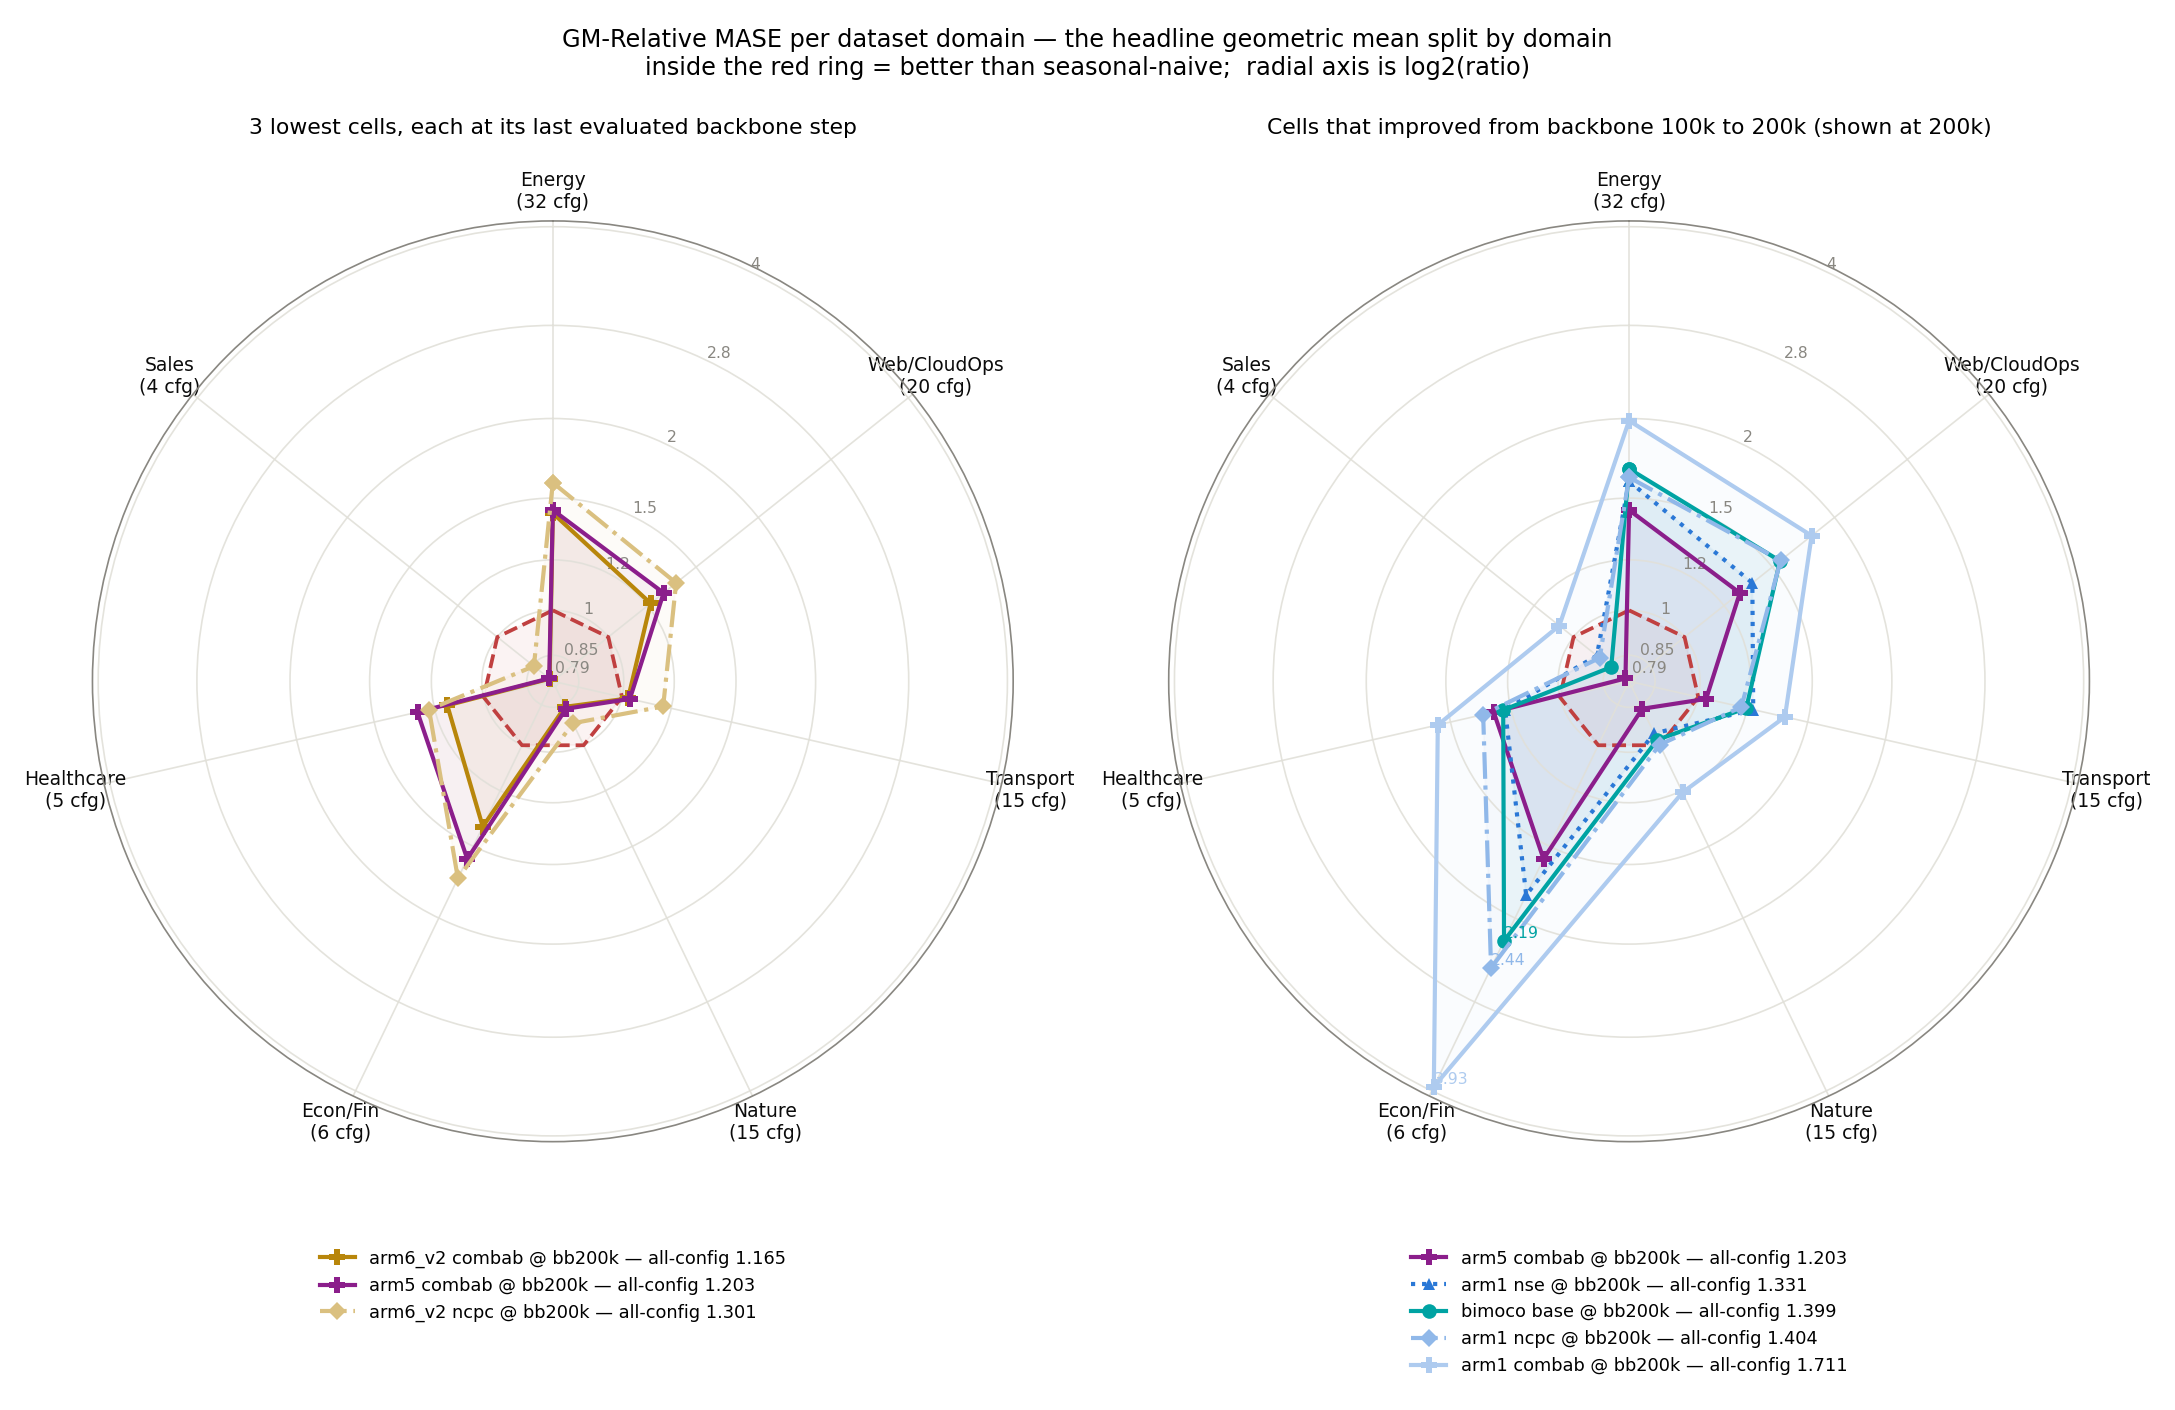
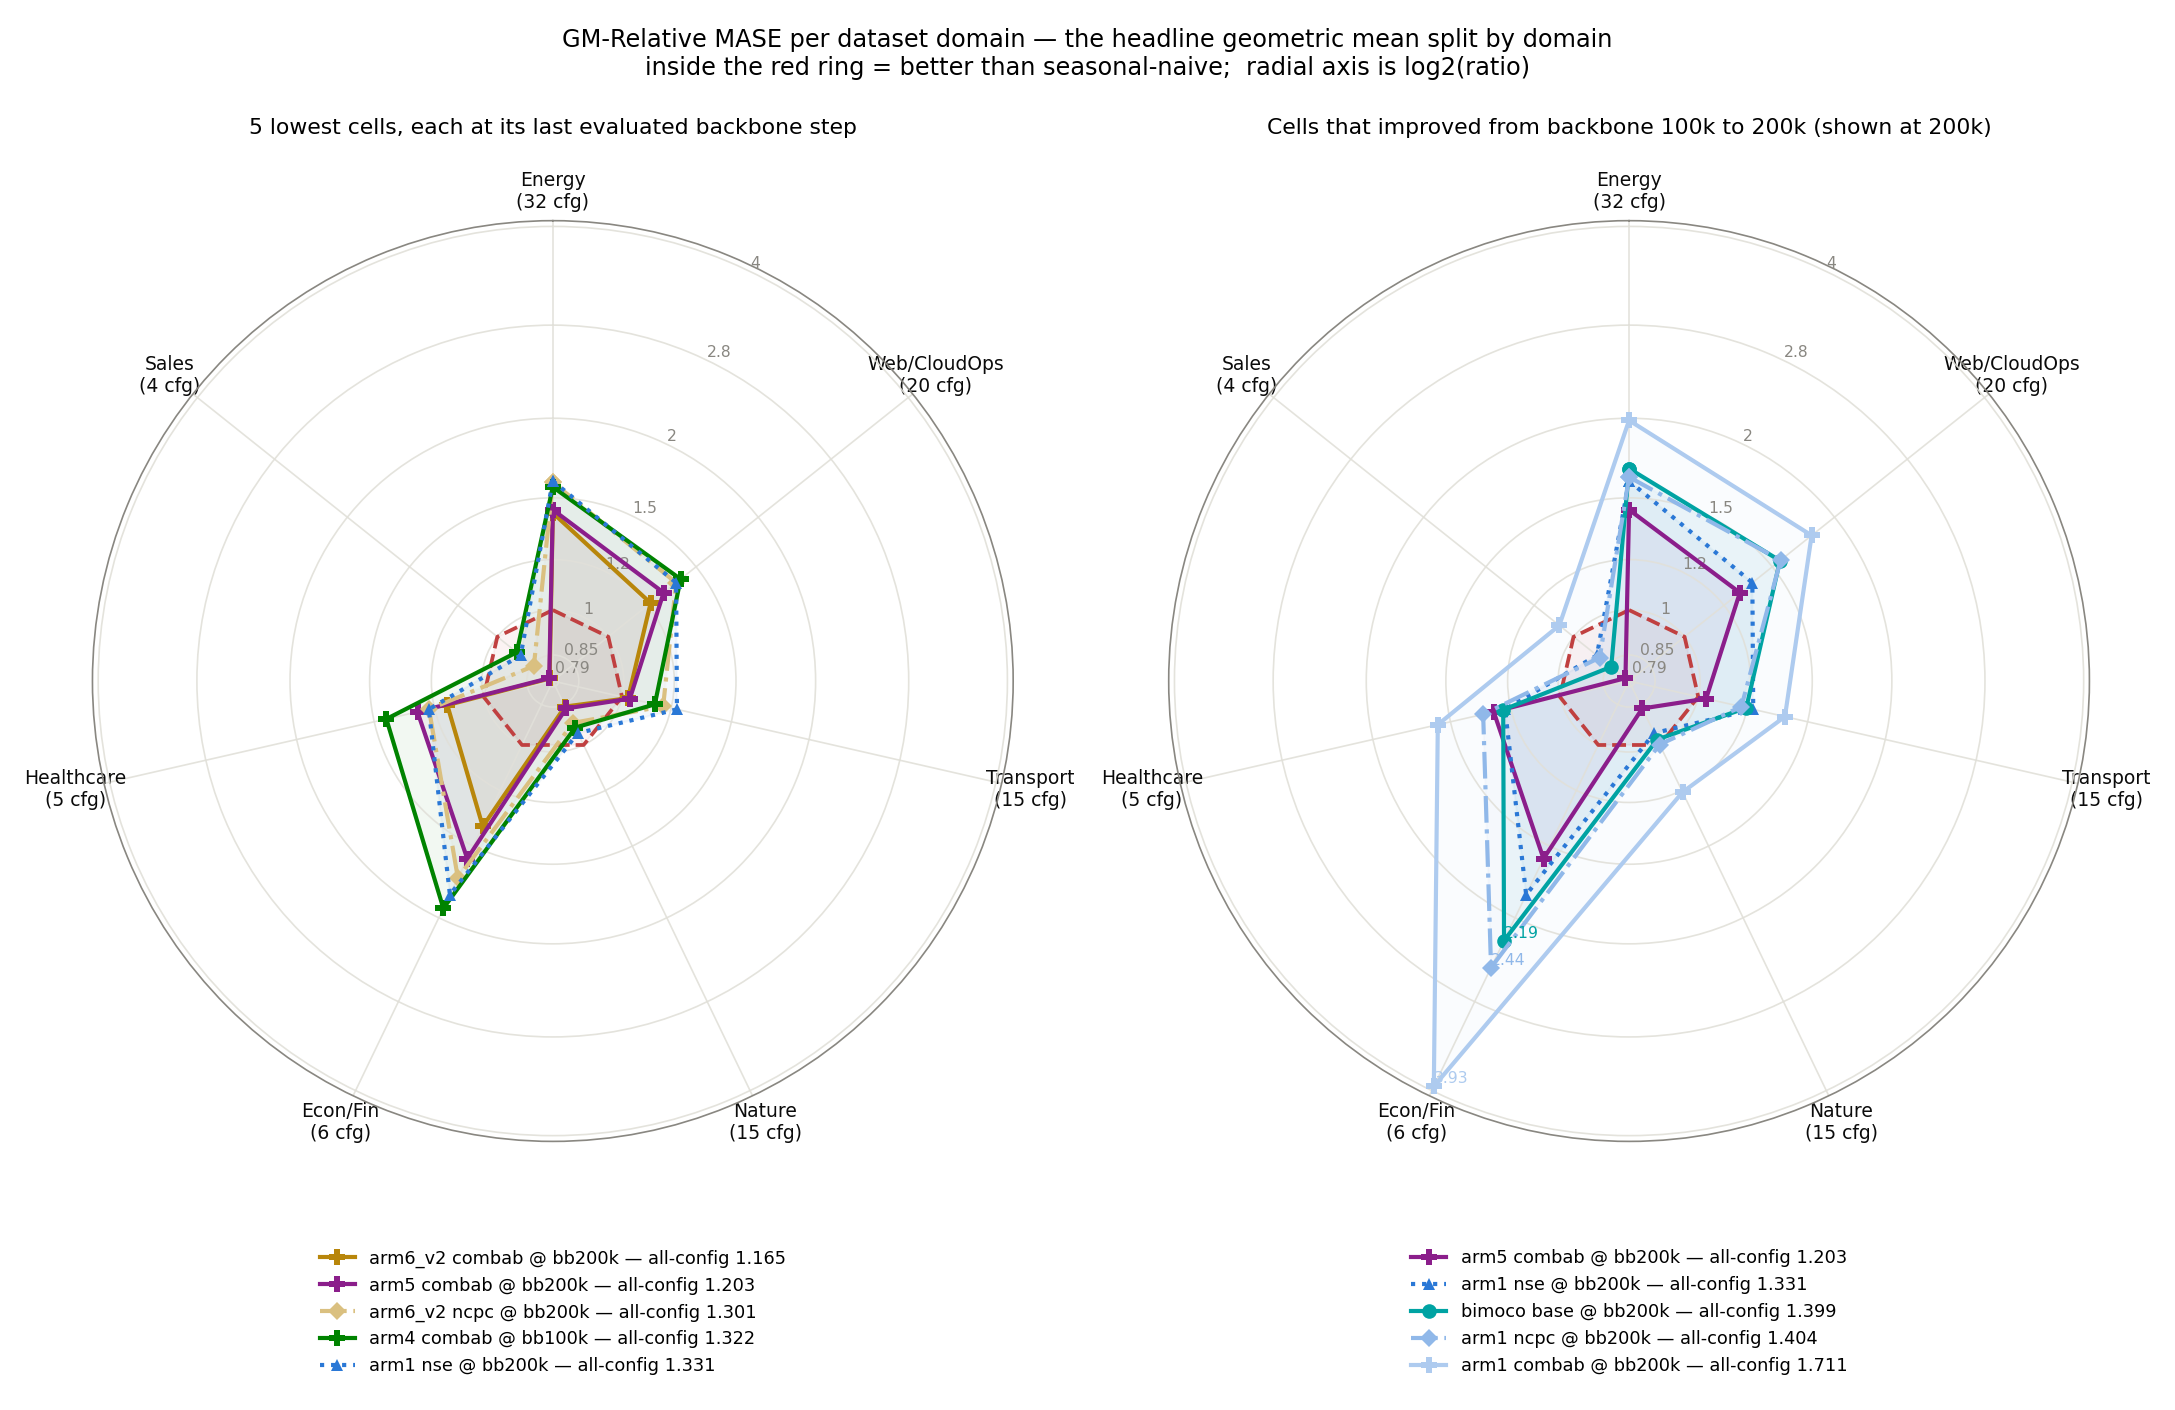
report(#379): radar left panel shows the 5 lowest cells, was 3
Claude-Session: https://claude.ai/code/session_012NGZ7hjBMq9qppu4QyaqMw

diff --git a/reports/2026-07-21_split_pred_rep_small/plots/_make_domain_radar.py b/reports/2026-07-21_split_pred_rep_small/plots/_make_domain_radar.py
@@ -5,7 +5,7 @@ radars split that same geometric mean by dataset domain, so a cell's strong and
 weak domains are visible instead of averaged away.
 
 Two panels:
-  left  — the 3 lowest cells by their last evaluated backbone step
+  left  — the 5 lowest cells by their last evaluated backbone step
   right — every cell that improved from backbone 100k to 200k
 
 The radial axis is log2(ratio): the plotted quantity is a ratio whose headline
@@ -40,7 +40,7 @@ for arm, var, vals in cells:
     if v is not None:
         scored.append((v, arm, var, C.HORIZONS[i][0], C.HORIZONS[i][1]))
 scored.sort(key=lambda r: r[0])
-top3 = scored[:3]
+topn = scored[:5]
 
 improved = []
 for arm, var, vals in cells:
@@ -57,7 +57,7 @@ N = len(DOMAINS)
 ANG = [n / N * 2 * math.pi for n in range(N)] + [0.0]
 
 allv = []
-for _v, arm, var, bb, hd in top3 + improved:
+for _v, arm, var, bb, hd in topn + improved:
     d, _c = series(arm, var, bb, hd)
     if d: allv += [d[k] for k in DOMAINS if k in d]
 LO, HI = min(allv), max(allv)
@@ -113,7 +113,7 @@ def draw(ax, rows, title):
 
 fig, axes = plt.subplots(1, 2, figsize=(14.5, 9.4),
                          subplot_kw={"projection": "polar"})
-draw(axes[0], top3, "3 lowest cells, each at its last evaluated backbone step")
+draw(axes[0], topn, "5 lowest cells, each at its last evaluated backbone step")
 draw(axes[1], improved, "Cells that improved from backbone 100k to 200k (shown at 200k)")
 fig.suptitle("GM-Relative MASE per dataset domain — the headline geometric mean split by domain\n"
              "inside the red ring = better than seasonal-naive;  radial axis is log2(ratio)",
@@ -122,6 +122,6 @@ fig.tight_layout(rect=[0, 0.10, 1, 0.94])
 out = HERE / "eval_domain_radar.png"
 fig.savefig(out)
 print(f"wrote {out}")
-print("  panel 1:", ", ".join(f"{C.label(a,v)}@bb{bb}k" for _, a, v, bb, _ in top3))
+print("  panel 1:", ", ".join(f"{C.label(a,v)}@bb{bb}k" for _, a, v, bb, _ in topn))
 print("  panel 2:", ", ".join(C.label(a, v) for _, a, v, _, _ in improved))
 print(f"  ratio range {LO:.3f}–{HI:.3f}, ticks {TICKS}")

diff --git a/reports/2026-07-21_split_pred_rep_small/small_long.md b/reports/2026-07-21_split_pred_rep_small/small_long.md
@@ -16,9 +16,9 @@ One panel per loss recipe, sharing axes. Inside a panel the five settings are co
 
 ### 2. GM-Relative MASE per dataset domain
 
-The headline number is one geometric mean over all 97 configs. These radars apply that same geometric mean inside each of the 7 GIFT-Eval domains, so a cell's strong and weak domains are visible instead of averaged away. Left: the 3 lowest cells, each at its last evaluated backbone step. Right: every cell that improved from 100k to 200k.
+The headline number is one geometric mean over all 97 configs. These radars apply that same geometric mean inside each of the 7 GIFT-Eval domains, so a cell's strong and weak domains are visible instead of averaged away. Left: the 5 lowest cells, each at its last evaluated backbone step. Right: every cell that improved from 100k to 200k.
 
-![Two radar charts over the 7 GIFT-Eval dataset domains, radial axis log2 of the GM-Relative MASE ratio; a red dashed ring marks seasonal-naive parity at 1.0, inside it the model is better; left panel the 3 lowest cells, right panel the 5 cells that improved from backbone 100k to 200k.](plots/eval_domain_radar.png)
+![Two radar charts over the 7 GIFT-Eval dataset domains, radial axis log2 of the GM-Relative MASE ratio; a red dashed ring marks seasonal-naive parity at 1.0, inside it the model is better; left panel the 5 lowest cells, right panel the 5 cells that improved from backbone 100k to 200k.](plots/eval_domain_radar.png)
 
 ### 3. Ranking at backbone 40k
 
